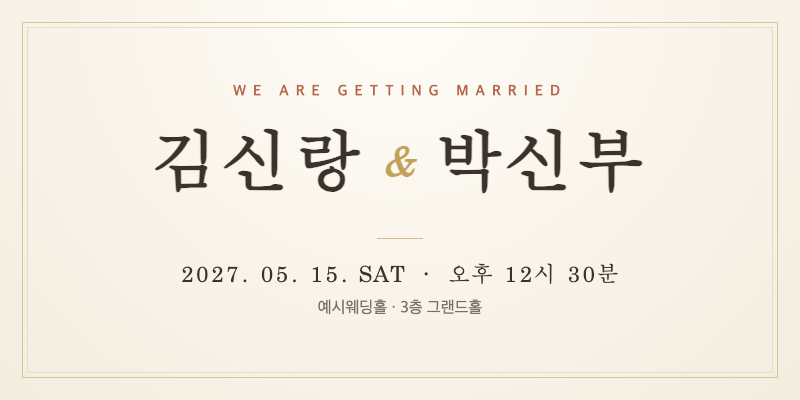
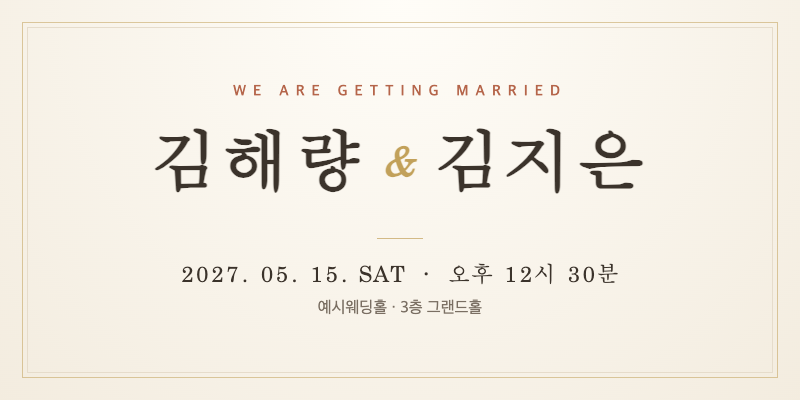
방명록 시트가 열리면 페이지 스크롤이 잠기던 문제 수정, 이름 변경, Pages 자동 배포 중단
- 방명록 시트/카드를 body 로 포털 (reveal 의 will-change 때문에 fixed 가 섹션 기준으로 잡혀 화면 밖에 뜨던 문제)
- 스크롤 잠금을 참조 카운트 유틸로 통합
- 신랑 김해량 · 신부 김지은, 링크 미리보기 이미지 갱신
- GitHub Pages 배포는 수동 실행 전용으로 변경, vite preview 에 API 프록시 추가

Claude-Session: https://claude.ai/code/session_01Jtt5uzLiW8yjS3APizsEdW

Changed region(s): [[0.5312, 0.33, 0.8125, 0.48], [0.2812, 0.33, 0.4688, 0.48]]

diff --git a/web/src/guestbook/ui/BottomSheet.tsx b/web/src/guestbook/ui/BottomSheet.tsx
@@ -1,5 +1,7 @@
 import { useEffect, useId, useRef } from 'react'
 import type { ReactNode } from 'react'
+import { createPortal } from 'react-dom'
+import { lockScroll } from '../../lib/scrollLock'
 import './BottomSheet.css'
 
 export interface BottomSheetProps {
@@ -31,9 +33,7 @@ export function BottomSheet({ open, onClose, title, children, headerExtra }: Bot
 
     restoreFocusRef.current = (document.activeElement as HTMLElement) ?? null
 
-    const body = document.body
-    const prevOverflow = body.style.overflow
-    body.style.overflow = 'hidden'
+    const unlock = lockScroll()
 
     // 첫 포커스는 다이얼로그 패널 자체 (닫기 버튼에 포커스 링이 바로 뜨지 않도록)
     const panel = panelRef.current
@@ -70,14 +70,15 @@ export function BottomSheet({ open, onClose, title, children, headerExtra }: Bot
     return () => {
       cancelAnimationFrame(raf)
       document.removeEventListener('keydown', onKeyDown, true)
-      body.style.overflow = prevOverflow
+      unlock()
       restoreFocusRef.current?.focus?.()
     }
   }, [open])
 
   if (!open) return null
 
-  return (
+  // 조상에 transform/will-change 가 있으면 position: fixed 가 뷰포트가 아닌 그 조상 기준이 되므로 body 로 포털
+  return createPortal(
     <div className="sheet-backdrop" onMouseDown={onClose}>
       <div
         ref={panelRef}
@@ -100,6 +101,7 @@ export function BottomSheet({ open, onClose, title, children, headerExtra }: Bot
         </div>
         <div className="sheet-body">{children}</div>
       </div>
-    </div>
+    </div>,
+    document.body,
   )
 }

diff --git a/web/src/config/wedding.ts b/web/src/config/wedding.ts
@@ -51,18 +51,18 @@ export interface WeddingConfig {
 
 export const wedding: WeddingConfig = {
   groom: {
-    name: '김신랑',
-    firstName: '신랑',
+    name: '김해량',
+    firstName: '해량',
     relation: '장남',
     father: { name: '김아버지' },
     mother: { name: '이어머니' },
     phone: '010-0000-0000',
   },
   bride: {
-    name: '박신부',
-    firstName: '신부',
+    name: '김지은',
+    firstName: '지은',
     relation: '장녀',
-    father: { name: '박아버지' },
+    father: { name: '김아버지' },
     mother: { name: '최어머니' },
     phone: '010-0000-0000',
   },
@@ -94,11 +94,11 @@ export const wedding: WeddingConfig = {
   coverImage: undefined,
   gallery: [],
   accounts: {
-    groomSide: [{ role: '신랑', bank: '예시은행', number: '000-0000-0000', holder: '김신랑' }],
-    brideSide: [{ role: '신부', bank: '예시은행', number: '000-0000-0000', holder: '박신부' }],
+    groomSide: [{ role: '신랑', bank: '예시은행', number: '000-0000-0000', holder: '김해량' }],
+    brideSide: [{ role: '신부', bank: '예시은행', number: '000-0000-0000', holder: '김지은' }],
   },
   share: {
-    title: '김신랑 ♥ 박신부 결혼합니다',
+    title: '김해량 ♥ 김지은 결혼합니다',
     description: '2027년 5월 15일 토요일 오후 12시 30분 · 예시웨딩홀',
   },
   kakaoJsKey: undefined,

diff --git a/web/src/lib/ics.test.ts b/web/src/lib/ics.test.ts
@@ -14,8 +14,8 @@ function utf8ByteLength(s: string): number {
 }
 
 const ev: CalendarEvent = {
-  title: '김신랑 ♥ 박신부 결혼식',
-  description: '김신랑 ♥ 박신부의 결혼식에 초대합니다.',
+  title: '김해량 ♥ 김지은 결혼식',
+  description: '김해량 ♥ 김지은의 결혼식에 초대합니다.',
   location: '예시웨딩홀 3층 그랜드홀, 서울특별시 중구 세종대로 110',
   start: new Date('2027-05-15T12:30:00+09:00'),
   end: new Date('2027-05-15T14:00:00+09:00'),
@@ -25,7 +25,7 @@ const ev: CalendarEvent = {
 describe('weddingEvent', () => {
   it('설정값에서 제목/장소/시간을 구성한다', () => {
     const e = weddingEvent(wedding, 'https://haeryangkim.github.io/wedding-card/')
-    expect(e.title).toBe('김신랑 ♥ 박신부 결혼식')
+    expect(e.title).toBe('김해량 ♥ 김지은 결혼식')
     expect(e.location).toBe('예시웨딩홀 3층 그랜드홀, 서울특별시 중구 세종대로 110')
     // 12:30 KST = 03:30 UTC, +90분 → 05:00 UTC
     expect(e.start.toISOString()).toBe('2027-05-15T03:30:00.000Z')

diff --git a/web/src/components/BottomSheet.tsx b/web/src/components/BottomSheet.tsx
@@ -1,6 +1,7 @@
 import { useEffect } from 'react'
 import type { ReactNode } from 'react'
 import { createPortal } from 'react-dom'
+import { lockScroll } from '../lib/scrollLock'
 import './BottomSheet.css'
 
 interface BottomSheetProps {
@@ -18,11 +19,10 @@ export function BottomSheet({ open, onClose, title, children }: BottomSheetProps
       if (e.key === 'Escape') onClose()
     }
     document.addEventListener('keydown', onKey)
-    const prevOverflow = document.body.style.overflow
-    document.body.style.overflow = 'hidden'
+    const unlock = lockScroll()
     return () => {
       document.removeEventListener('keydown', onKey)
-      document.body.style.overflow = prevOverflow
+      unlock()
     }
   }, [open, onClose])
 

diff --git a/web/src/sections/Gallery.tsx b/web/src/sections/Gallery.tsx
@@ -1,5 +1,6 @@
 import { useCallback, useEffect, useRef, useState } from 'react'
 import { createPortal } from 'react-dom'
+import { lockScroll } from '../lib/scrollLock'
 import { wedding } from '../config/wedding'
 import { SectionHeading } from '../components/SectionHeading'
 import './Gallery.css'
@@ -43,11 +44,10 @@ export function Gallery() {
       if (e.key === 'ArrowLeft') go(-1)
     }
     document.addEventListener('keydown', onKey)
-    const prev = document.body.style.overflow
-    document.body.style.overflow = 'hidden'
+    const unlock = lockScroll()
     return () => {
       document.removeEventListener('keydown', onKey)
-      document.body.style.overflow = prev
+      unlock()
     }
   }, [open, close, go])
 

diff --git a/web/src/guestbook/ui/GuestCard.tsx b/web/src/guestbook/ui/GuestCard.tsx
@@ -1,4 +1,5 @@
 import { useEffect, useRef, useState } from 'react'
+import { createPortal } from 'react-dom'
 import type { GuestEntry } from '../types'
 import { CharacterPreview } from './CharacterPreview'
 import { fullDate, sideLabel } from './format'
@@ -55,7 +56,7 @@ export function GuestCard({ entry, mine, onClose, onDelete, onLocate }: GuestCar
     }
   }
 
-  return (
+  return createPortal(
     <div className="card-backdrop" onMouseDown={onClose}>
       <div
         ref={cardRef}
@@ -135,6 +136,7 @@ export function GuestCard({ entry, mine, onClose, onDelete, onLocate }: GuestCar
           </div>
         )}
       </div>
-    </div>
+    </div>,
+    document.body,
   )
 }

diff --git a/web/src/lib/scrollLock.ts b/web/src/lib/scrollLock.ts
@@ -1,0 +1,21 @@
+/**
+ * 바디 스크롤 잠금 (참조 카운트).
+ * 여러 오버레이(시트·카드·라이트박스)가 겹쳐 열리고 순서 없이 닫혀도 잠금이 남지 않도록 한곳에서 관리합니다.
+ */
+let count = 0
+let prevOverflow = ''
+
+export function lockScroll(): () => void {
+  if (count === 0) {
+    prevOverflow = document.body.style.overflow
+    document.body.style.overflow = 'hidden'
+  }
+  count++
+  let released = false
+  return () => {
+    if (released) return
+    released = true
+    count--
+    if (count === 0) document.body.style.overflow = prevOverflow
+  }
+}

diff --git a/web/vite.config.ts b/web/vite.config.ts
@@ -62,8 +62,12 @@ function weddingIcs(): Plugin {
   }
 }
 
+const apiProxy = { '/api': 'http://localhost:8787' }
+
 export default defineConfig({
   base,
   plugins: [react(), ogTags(), weddingIcs()],
-  server: { host: true, proxy: { '/api': 'http://localhost:8787' } },
+  server: { host: true, proxy: apiProxy },
+  // `vite preview` (로컬 배포 확인용) 도 같은 프록시 사용
+  preview: { host: true, proxy: apiProxy },
 })

diff --git a/web/src/components/Reveal.css b/web/src/components/Reveal.css
@@ -10,6 +10,7 @@
 .reveal.is-in {
   opacity: 1;
   transform: none;
+  will-change: auto;
 }
 
 @media (prefers-reduced-motion: reduce) {
